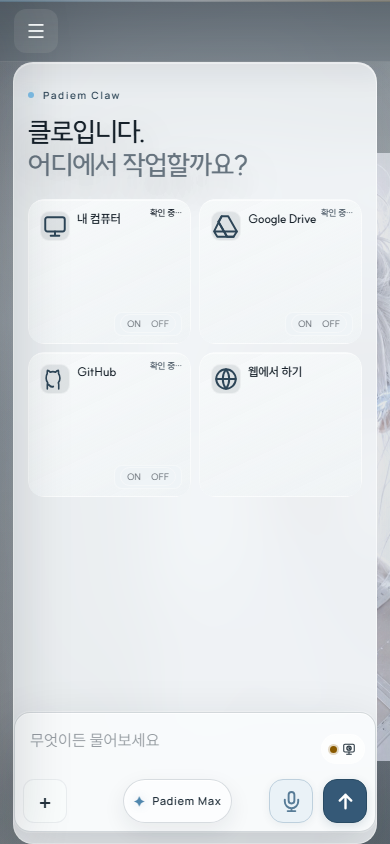
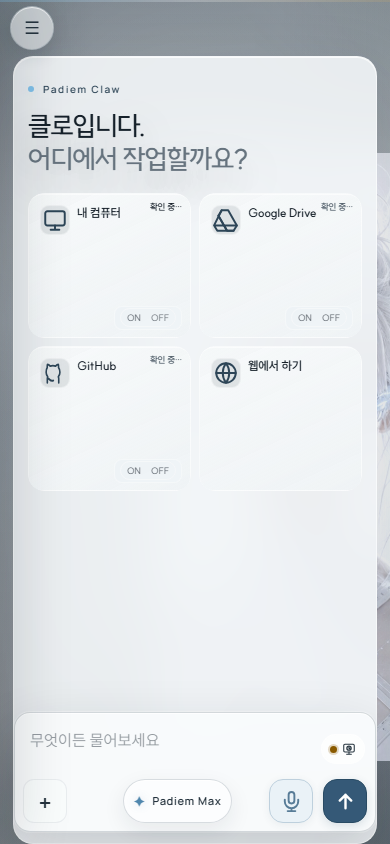
fix(connector): 390 Claw 카드에서 상태·이름 겹침을 줄이고 스위치 자리를 확보

diff --git a/apps/padiem-chat/static/connector-pages.css b/apps/padiem-chat/static/connector-pages.css
@@ -199,13 +199,27 @@
   flex: 0 0 auto;
 }
 
-/* The Claw ON/OFF switch is a normal control in the card's own flow: it can
- * never sit on top of the description text, at any width. */
+/* The Claw ON/OFF switch stays a compact bottom-right control, and the card's
+ * own text reserves the row: the switch can never sit on top of the
+ * description at any width, and the card's grid height is untouched. */
+.app-shell[data-state="claw"] .claw-workspace[data-view="general"] ~ .conversation .claw-home-card > .claw-workspace-starter {
+  padding-bottom: 46px;
+}
+
 .app-shell[data-state="claw"] .claw-workspace[data-view="general"] ~ .conversation .claw-home-card > .claw-connection-toggle {
-  position: static;
-  right: auto;
-  bottom: auto;
-  z-index: auto;
-  align-self: flex-end;
-  margin: 0 10px 10px auto !important;
+  right: 10px;
+  bottom: 8px;
+}
+
+/* Claw home cards at phone widths: the fixed-height tile clipped the name and
+ * let the status chip sit on it. The card grows to its own content and the
+ * starter reserves the status row above and the switch row below. */
+@media (max-width: 720px) {
+  .app-shell[data-state="claw"] .claw-workspace[data-view="general"] ~ .conversation .claw-home-card {
+    min-height: 160px;
+  }
+  .app-shell[data-state="claw"] .claw-workspace[data-view="general"] ~ .conversation .claw-home-card > .claw-workspace-starter {
+    padding: 30px 12px 50px;
+    align-items: flex-start;
+  }
 }
